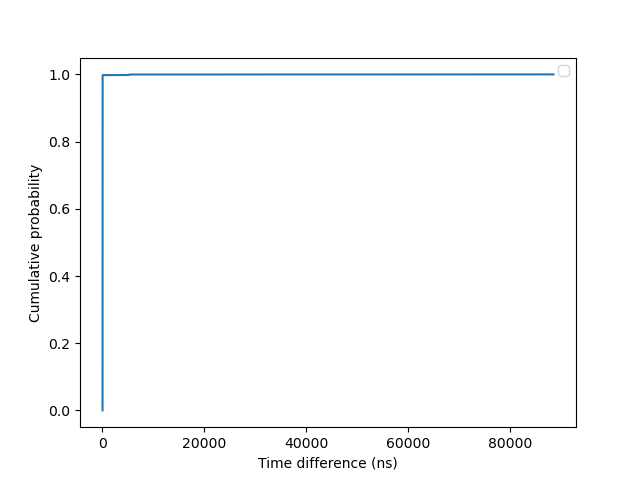
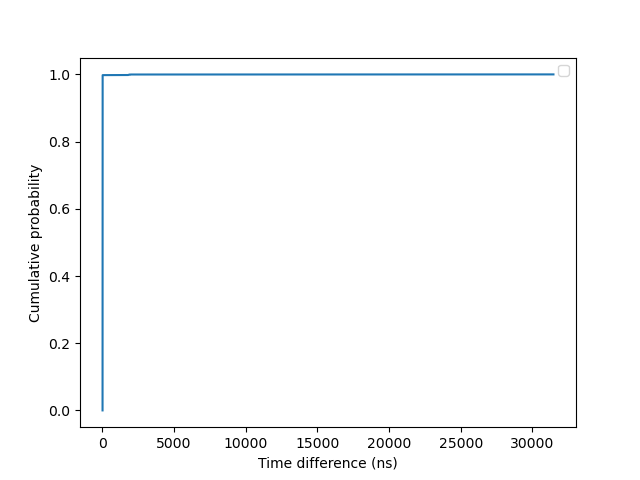
changes 7

Changed region(s): [[0.5625, 0.9062, 0.875, 0.9375], [0.25, 0.9062, 0.5312, 0.9375]]

diff --git a/assignment2/plot.py b/assignment2/plot.py
@@ -4,17 +4,17 @@ import matplotlib.pyplot as plt
 
 
 # parameters to modify 
-filename="time_c.txt"
+filename="time_c without pinning.txt"
 label=''
 xlabel = 'Time difference (ns)'
 ylabel = 'Cumulative probability'
 title=''
-fig_name='q6.png'
+fig_name='q5.png'
 bins=100 #adjust the number of bins to your plot
 
 ## load data from input file
 t = np.loadtxt(filename, delimiter=" ", dtype="float")
-
+t = t / 2.8125
 ## if your data is "X Y" (2 cols), use the following line
 #plt.plot(t[:,0], t[:,1], label=label)  # Plot some data on the (implicit) axes.
 
